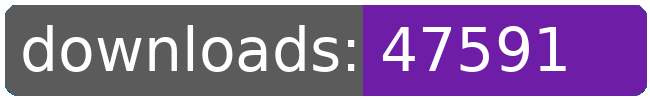
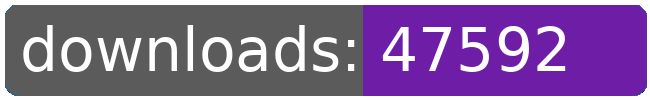
dl log written

Changed region(s): [[0.8, 0.24, 0.8923, 0.66], [0.8, 0.66, 0.8308, 0.69]]

diff --git a/README.md b/README.md
@@ -21,8 +21,8 @@
 		<td>3301</td>
 		<td>3325</td>
 		<td>3349</td>
-		<td>3356</td>
-		<td>+ 7</td>
+		<td>3357</td>
+		<td>+ 8</td>
 	</tr>
 	<tr>
 		<td>aberrant.kahet.outfitter</td>
@@ -274,8 +274,8 @@
 		<td></td>
 		<td></td>
 		<td></td>
-		<td>47591</td>
-		<td>143</td>
+		<td>47592</td>
+		<td>144</td>
 	</tr>
 </table>
 </sub></sup>
@@ -322,8 +322,8 @@
 		<td>3301</td>
 		<td>3325</td>
 		<td>3349</td>
-		<td>3356</td>
-		<td>+ 7</td>
+		<td>3357</td>
+		<td>+ 8</td>
 	</tr>
 	<tr>
 		<td>capture.archons</td>
@@ -553,8 +553,8 @@
 		<td></td>
 		<td></td>
 		<td></td>
-		<td>47591</td>
-		<td>143</td>
+		<td>47592</td>
+		<td>144</td>
 	</tr>
 </table>
 </sub></sup>
